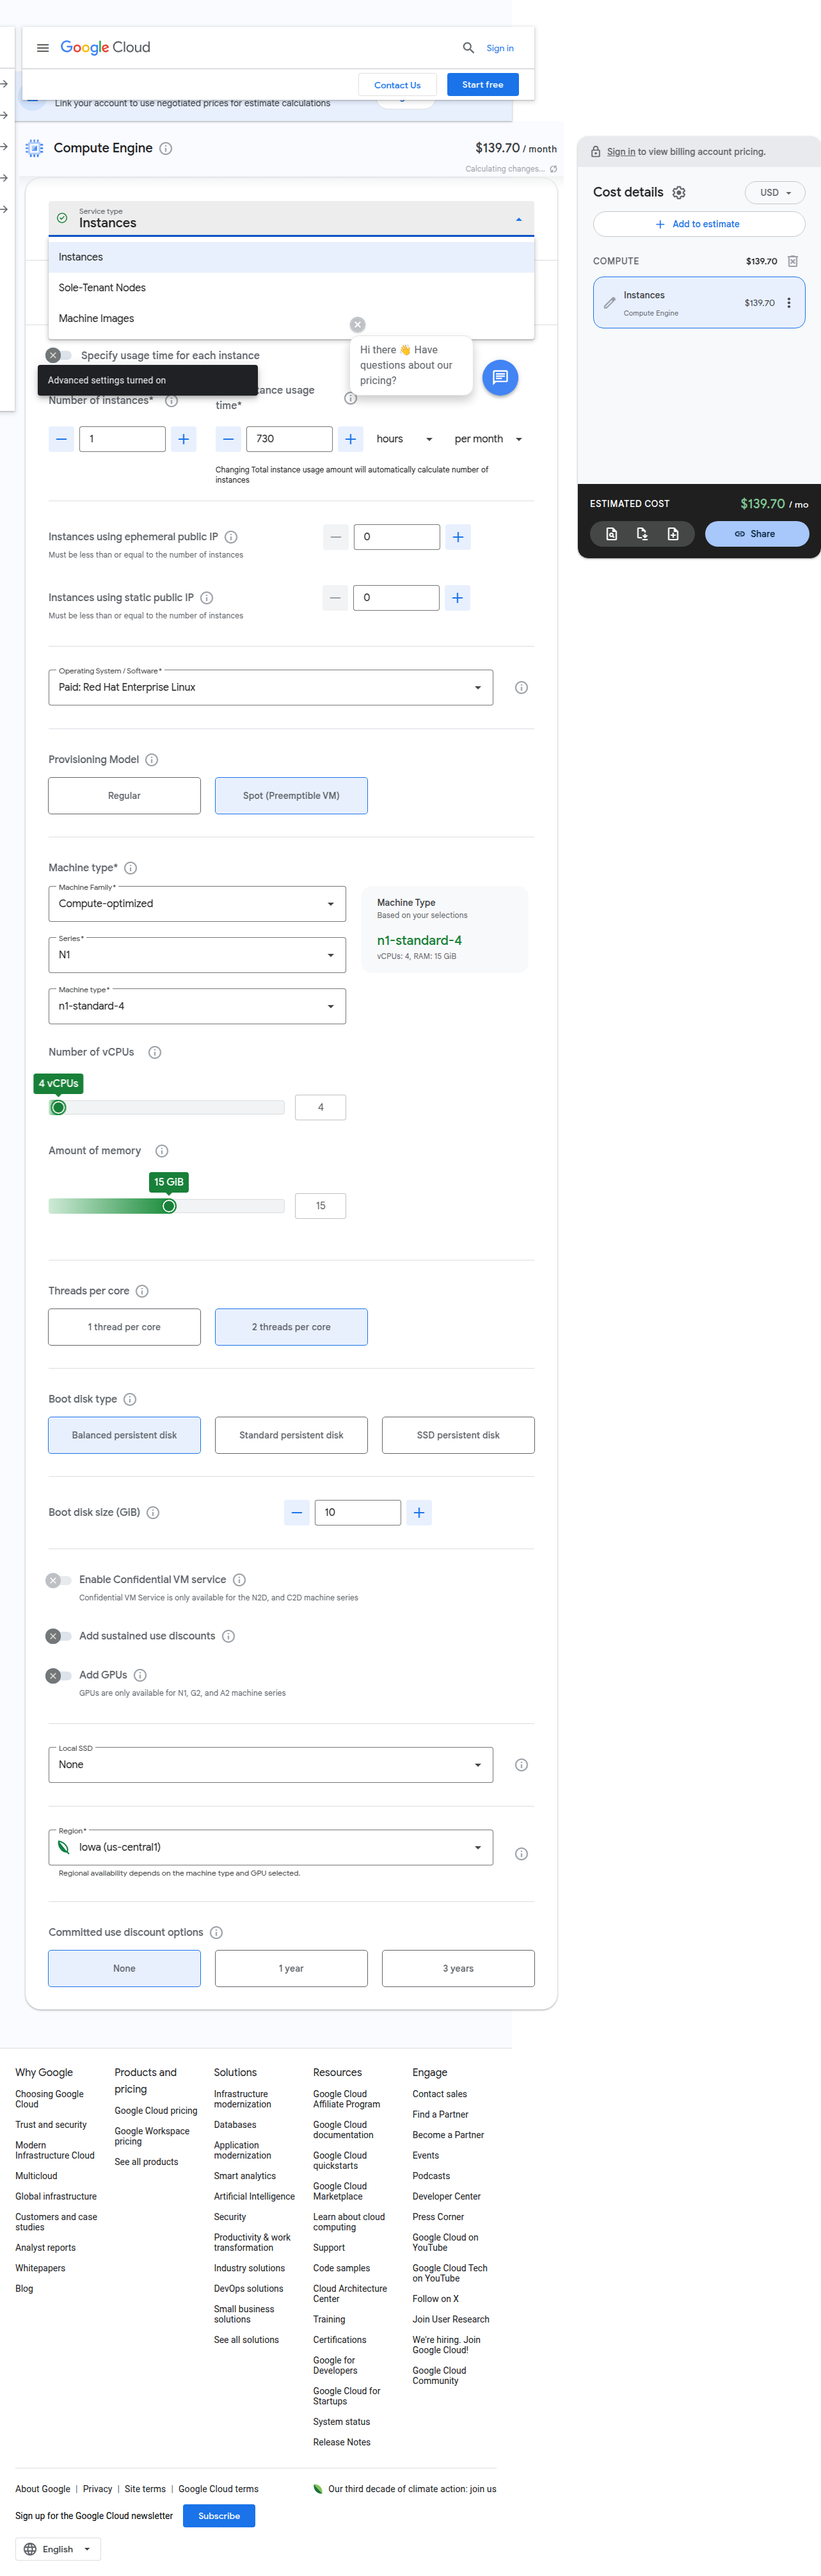
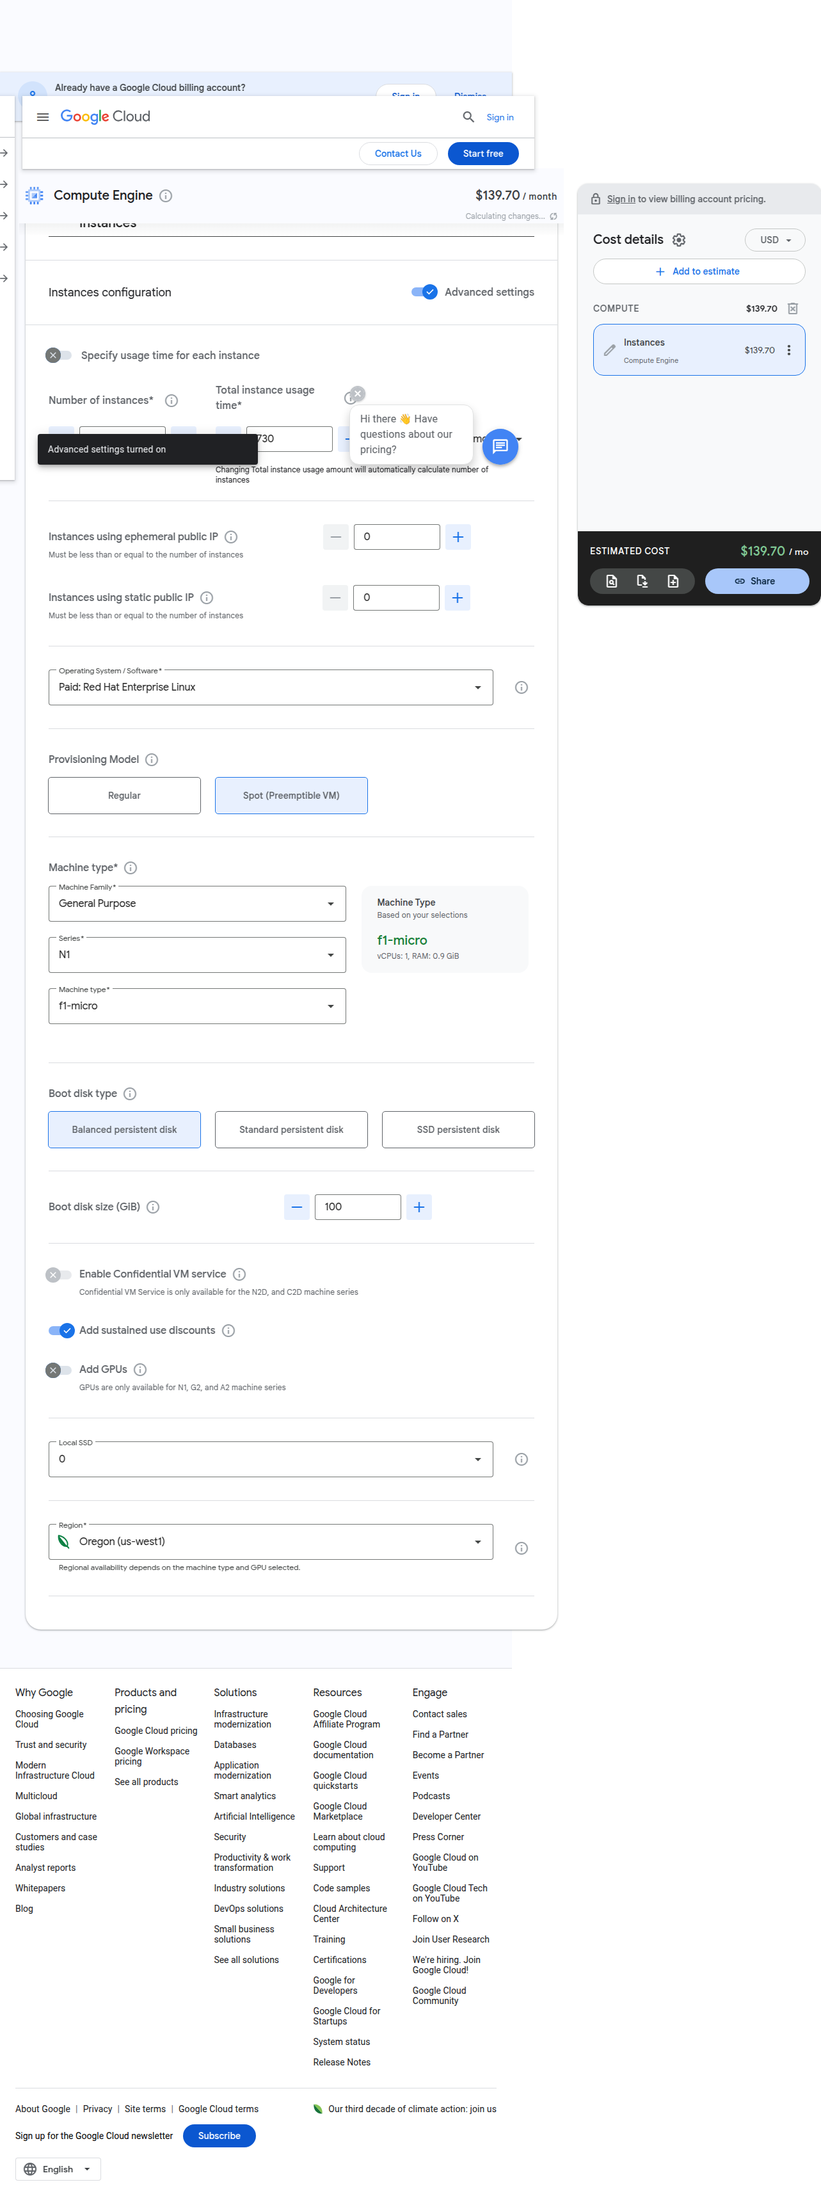
bug fix in region is remaining

diff --git a/under dev/compute.js b/under dev/compute.js
@@ -65,26 +65,26 @@ async function configureAdvancedSettings(page)
     }
 }
 
-async function setUsageTimeOption(page, hours_per_day=10) {
-    console.log(`⏲ Setting Usage Time Option based on hours per day: ${hours_per_day}`);
+    async function setUsageTimeOption(page, hours_per_day=10) {
+        console.log(`⏲ Setting Usage Time Option based on hours per day: ${hours_per_day}`);
 
-    if (hours_per_day > 0 && hours_per_day < 5) {
-        const toggleSelector = 'button[role="switch"][aria-labelledby="ucc-4"]';
+        if (hours_per_day > 0 && hours_per_day < 5) {
+            const toggleSelector = 'button[role="switch"][aria-labelledby="ucc-4"]';
 
-        await page.waitForSelector(toggleSelector, { visible: true });
+            await page.waitForSelector(toggleSelector, { visible: true });
 
-        const isChecked = await page.$eval(toggleSelector, btn => btn.getAttribute('aria-checked') === 'true');
+            const isChecked = await page.$eval(toggleSelector, btn => btn.getAttribute('aria-checked') === 'true');
 
-        if (!isChecked) {
-            await page.click(toggleSelector);
-            console.log('✅ Usage Time Option toggled ON.');
+            if (!isChecked) {
+                await page.click(toggleSelector);
+                console.log('✅ Usage Time Option toggled ON.');
+            } else {
+                console.log('ℹ Usage Time Option already ON.');
+            }
         } else {
-            console.log('ℹ Usage Time Option already ON.');
+            console.log('ℹ Skipping toggle — hours not in range.');
         }
-    } else {
-        console.log('ℹ Skipping toggle — hours not in range.');
     }
-}
 
 
 
@@ -173,7 +173,7 @@ async function selectProvisioningModel(page, model = 'Preemptible') {
     console.log('✅ Provisioning Model set to Preemptible (Spot)');
 }
 
-async function selectMachineFamily(pageOrFrame, value = 'Compute-optimized') {
+async function selectMachineFamily(pageOrFrame, value = 'General Purpose') {
     console.log(`🏗 Selecting Machine Family: "${value}"`);
   
     const dropdownOpener = await pageOrFrame.$('div.S8daBe-aPP78e');
@@ -199,91 +199,225 @@ async function selectMachineFamily(pageOrFrame, value = 'Compute-optimized') {
   }
   
   
+  async function selectSeries(pageOrFrame, value = 'N1') {
+    console.log(`📘 Selecting Series: "${value}"`);
   
+    const dropdownOpener = await pageOrFrame.$('div.S8daBe-aPP78e');
+    if (!dropdownOpener) throw new Error('❌ Series dropdown trigger not found');
+    await dropdownOpener.click();
+    console.log('📂 Dropdown clicked, waiting for options...');
   
-  async function selectSeries(frame, seriesText="C2D") {
-    console.log(`📘 Selecting Series: "${seriesText}"`);
+    // Wait for any option to appear first
+    await pageOrFrame.waitForSelector('ul[role="listbox"] li[role="option"]', { visible: true, timeout: 10000 });
   
-    if (!seriesText) throw new Error("❌ Series text is undefined");
+    // Then wait specifically for the option you want to appear in DOM
+    await pageOrFrame.waitForFunction(
+      (value) => {
+        const items = Array.from(document.querySelectorAll('ul[role="listbox"] li[role="option"] span[jsname="K4r5Ff"]'));
+        return items.some((el) => el.textContent.trim().toLowerCase() === value.toLowerCase());
+      },
+      { timeout: 10000 },
+      value
+    );
   
-    const dropdowns = await frame.$$('[jsname="xl07Ob"]');
-    const dropdown = dropdowns[2];
-  
-    if (!dropdown) throw new Error("❌ Series dropdown not found");
-  
-    try {
-      await dropdown.scrollIntoViewIfNeeded();
-  
-      const box = await dropdown.boundingBox();
-      if (!box) throw new Error("❌ Dropdown not visible for Series");
-  
-      await frame.waitForTimeout(300); // allow animations/rendering
-  
-      try {
-        await dropdown.hover();
-        await dropdown.click({ delay: 100 });
-      } catch {
-        // fallback to forcing click via JS
-        const button = await dropdown.evaluateHandle(el => el);
-        await frame.evaluate(el => el.click(), button);
-      }
-  
-      console.log("📂 Series dropdown clicked, waiting for menu...");
-    } catch (err) {
-      throw new Error("❌ Failed to click on Series dropdown");
-    }
-  
-    const listboxSelector = 'ul[role="listbox"][aria-label="Series"]';
-    try {
-      await frame.waitForSelector(listboxSelector, { timeout: 8000 });
-    } catch {
-      throw new Error("❌ Series options did not appear");
-    }
-  
-    await frame.waitForTimeout(500);
-  
-    const options = await frame.$$(listboxSelector + ' li[role="option"]');
-  
-    let found = false;
-    for (const option of options) {
-      const text = await option.evaluate(el =>
-        el.querySelector('[jsname="K4r5Ff"]')?.innerText.trim()
-      );
-  
-      if (text?.toLowerCase().includes(seriesText.toLowerCase())) {
-        try {
-          await option.scrollIntoViewIfNeeded();
-          await option.hover();
-          await option.click({ delay: 80 });
-          console.log(`✅ Series selected: ${text}`);
-          found = true;
-          break;
-        } catch (err) {
-          throw new Error(`❌ Failed to click Series option: ${text}`);
+    // Finally evaluate and click it
+    const clicked = await pageOrFrame.evaluate((value) => {
+      const items = Array.from(document.querySelectorAll('ul[role="listbox"] li[role="option"]'));
+      for (const item of items) {
+        const label = item.querySelector('span[jsname="K4r5Ff"]');
+        if (label && label.textContent.trim().toLowerCase() === value.toLowerCase()) {
+          label.scrollIntoView({ block: 'center' });
+          label.click();
+          return true;
         }
       }
-    }
+      return false;
+    }, value);
   
-    if (!found) throw new Error(`❌ Could not find Series: "${seriesText}"`);
+    if (!clicked) throw new Error(`❌ Series "${value}" not found in dropdown`);
+    console.log(`✅ Series selected: ${value}`);
   }
   
   
   
   
   
-async function selectMachineType(page) {}
+  async function selectMachineType(pageOrFrame, value = 'f1-micro') {
+    console.log(`📘 Selecting Machine Type: "${value}"`);
+  
+    const dropdownOpener = await pageOrFrame.$('div.S8daBe-aPP78e');
+    if (!dropdownOpener) throw new Error('❌ Machine Type dropdown trigger not found');
+    await dropdownOpener.click();
+    console.log('📂 Dropdown clicked, waiting for options...');
+  
+    await pageOrFrame.waitForSelector('ul[role="listbox"] li[role="option"]', { visible: true, timeout: 10000 });
+  
+    await pageOrFrame.waitForFunction(
+      (value) => {
+        const options = Array.from(document.querySelectorAll('ul[role="listbox"] li[role="option"] span[jsname="K4r5Ff"]'));
+        return options.some(el => el.textContent.trim().toLowerCase() === value.toLowerCase());
+      },
+      { timeout: 10000 },
+      value
+    );
+  
+    const clicked = await pageOrFrame.evaluate((value) => {
+      const options = Array.from(document.querySelectorAll('ul[role="listbox"] li[role="option"]'));
+      for (const option of options) {
+        const label = option.querySelector('span[jsname="K4r5Ff"]');
+        if (label && label.textContent.trim().toLowerCase() === value.toLowerCase()) {
+          label.scrollIntoView({ block: 'center' });
+          label.click();
+          return true;
+        }
+      }
+      return false;
+    }, value);
+  
+    if (!clicked) throw new Error(`❌ Machine Type "${value}" not found in dropdown`);
+    console.log(`✅ Machine Type selected: ${value}`);
+  }
+  
 async function setNumberOfvCPUs(page) {}
 async function setAmountOfMemory(page) {}
-async function setBootDiskSize(page) {}
-async function toggleSustainedUseDiscount(page) {}
-async function selectRegion(page) {}
+
+
+async function setBootDiskSize(pageOrFrame, sizeInGB = 100) {
+    console.log(`💾 Setting Boot Disk Size to ${sizeInGB} GB`);
+  
+    const inputSelector = 'input[type="number"][id="c31"]';
+  
+    // Wait until the input field is visible and enabled
+    await pageOrFrame.waitForSelector(inputSelector, { visible: true, timeout: 10000 });
+  
+    const input = await pageOrFrame.$(inputSelector);
+    if (!input) throw new Error('❌ Boot disk size input field not found');
+  
+    // Click + focus + clear + type new value
+    await input.click({ clickCount: 3 }); // Triple click selects all text
+    await pageOrFrame.keyboard.press('Backspace'); // Ensure it's empty
+    await input.type(sizeInGB.toString());
+  
+    console.log(`✅ Boot Disk Size set to ${sizeInGB} GB`);
+  }
+  
+
+  async function toggleSustainedUseDiscount(pageOrFrame, enable = true) {
+    const toggleSelector = 'button[role="switch"][aria-label="Add sustained use discounts"]';
+    const checkMarkPath = 'M9.55 18.2'; // enabled
+    const crossMarkPath = 'M6.4 19.2';  // disabled
+  
+    console.log(`🎯 Ensuring Sustained Use Discount is ${enable ? 'ENABLED' : 'DISABLED'}`);
+  
+    try {
+      await pageOrFrame.waitForSelector(toggleSelector, { visible: true, timeout: 10000 });
+  
+      const toggle = await pageOrFrame.$(toggleSelector);
+      if (!toggle) throw new Error('❌ Toggle button not found');
+  
+      const currentState = await pageOrFrame.evaluate(el => el.getAttribute('aria-checked') === 'true', toggle);
+  
+      if (currentState === enable) {
+        console.log(`✅ Sustained Use Discount is already ${enable ? 'enabled' : 'disabled'}`);
+        return;
+      }
+  
+      // Simulate actual DOM click
+      await pageOrFrame.evaluate(el => {
+        const event = new MouseEvent('click', {
+          view: window,
+          bubbles: true,
+          cancelable: true
+        });
+        el.dispatchEvent(event);
+      }, toggle);
+  
+      await pageOrFrame.waitForTimeout?.(1000) || await new Promise(r => setTimeout(r, 1000));
+  
+      const verified = await pageOrFrame.evaluate(({ selector, enable, checkMarkPath, crossMarkPath }) => {
+        const btn = document.querySelector(selector);
+        if (!btn) return false;
+  
+        const path = btn.querySelector('svg path')?.getAttribute('d') || '';
+        return enable ? path.includes(checkMarkPath) : path.includes(crossMarkPath);
+      }, { selector: toggleSelector, enable, checkMarkPath, crossMarkPath });
+  
+      if (verified) {
+        console.log(`✅ Sustained Use Discount successfully toggled to ${enable ? 'enabled' : 'disabled'}`);
+      } else {
+        throw new Error('❌ Toggle verification failed: SVG path did not update');
+      }
+  
+    } catch (err) {
+      console.error(`❌ Failed to toggle Sustained Use Discount: ${err.message}`);
+      throw err;
+    }
+  }
+  
+  
+  
+  
+
+  async function selectRegion(pageOrFrame, value = 'us-west1') {
+    console.log(`🌎 Selecting Region: "${value}"`);
+  
+    const dropdownTrigger = await pageOrFrame.$('div[role="combobox"] span[jsname="Fb0Bif"]');
+    if (!dropdownTrigger) throw new Error('❌ Region dropdown trigger not found');
+  
+    await dropdownTrigger.click();
+    console.log('📂 Region dropdown clicked, waiting for options...');
+  
+    await pageOrFrame.waitForSelector('ul[role="listbox"] li[role="option"]', {
+      visible: true,
+      timeout: 10000,
+    });
+  
+    await pageOrFrame.waitForFunction(
+      (val) => {
+        return Array.from(document.querySelectorAll('ul[role="listbox"] li[role="option"]'))
+          .some(option => option.getAttribute('data-value') === val);
+      },
+      { timeout: 10000 },
+      value
+    );
+  
+    const success = await pageOrFrame.evaluate((val) => {
+      const options = Array.from(document.querySelectorAll('ul[role="listbox"] li[role="option"]'));
+      for (const option of options) {
+        if (option.getAttribute('data-value') === val) {
+          option.scrollIntoView({ block: 'center' });
+          option.click();
+          return true;
+        }
+      }
+      return false;
+    }, value);
+  
+    if (!success) throw new Error(`❌ Region "${value}" not found in dropdown`);
+  
+    console.log(`✅ Region selected: ${value}`);
+  }
+  
+  
+  
+  
+  
+  
+  
 async function selectOnDemandOption(page) {}
 async function selectCUD1YearOption(page) {}
 async function selectCUD3YearOption(page) {}
 async function scrapeMachineTypeData(page) {}
 async function scrapeEstimatedPrice(page) {}
 async function scrapePrice(page) {}
-async function scrapeUrl(page) {}
+
+async function scrapeUrl(page) {
+    const currentUrl = page.url();
+    console.log(`🔗 Current page URL: ${currentUrl}`);
+    return currentUrl;
+  }
+  
+
 
 async function calculateGCPCosts() {
     let browser, page;
